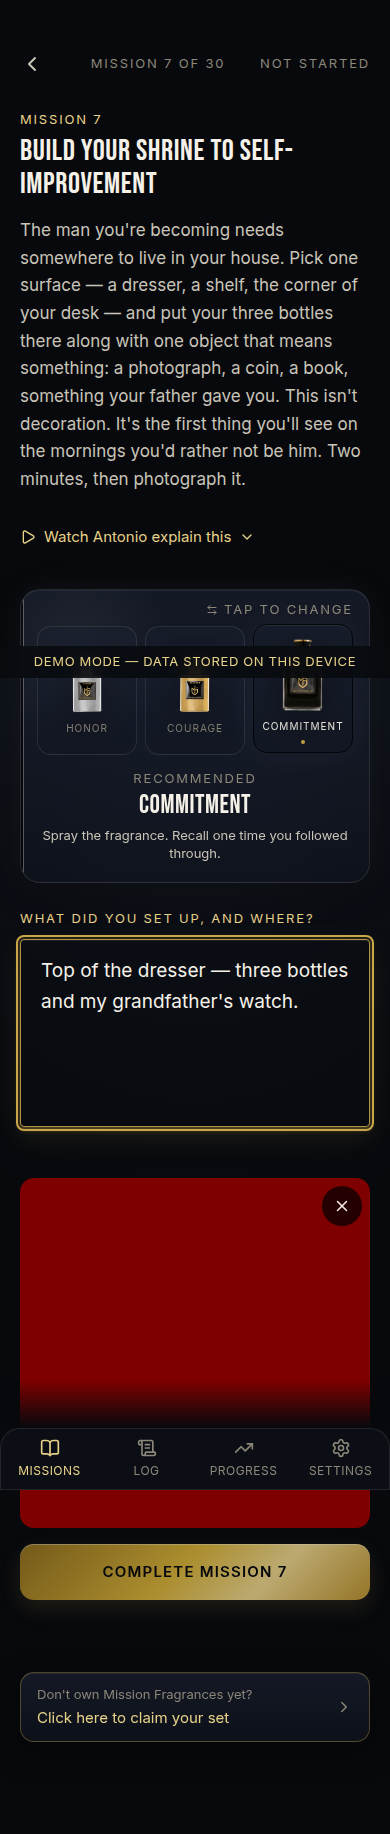
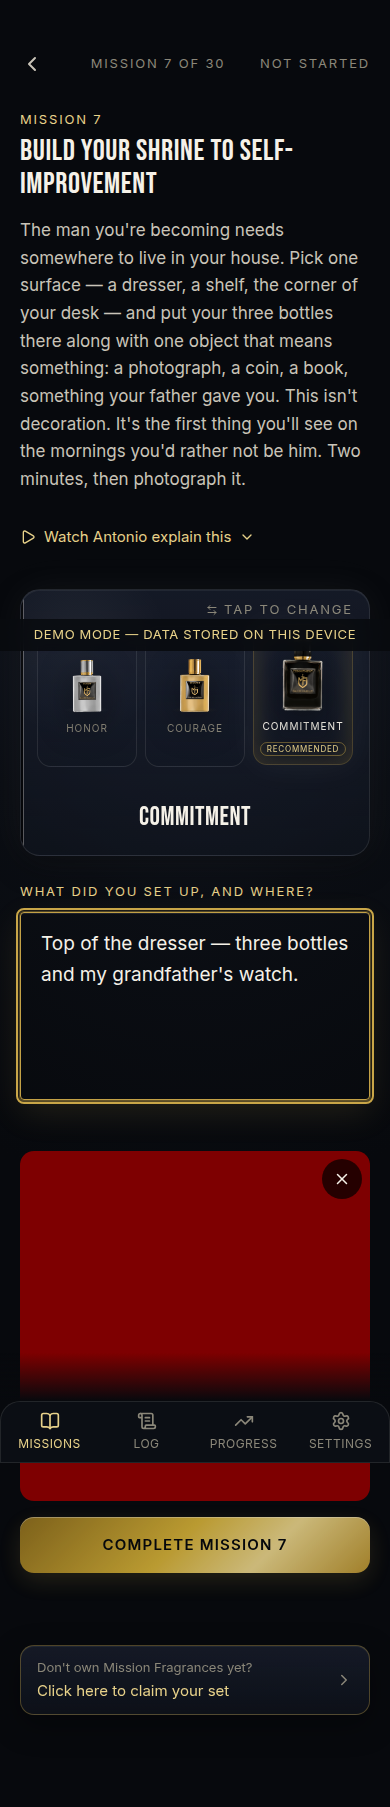
The recommendation lives on its bottle, and the spray line goes
The recommended tile now carries its own inner gold light and a small
RECOMMENDED pill inside it, in place of the dot. The marker sits on the
bottle it refers to, so it still reads once he is wearing something else.

With the tile saying it, the line under the row said RECOMMENDED twice in
twenty pixels — it now speaks only when it has something to add
("YOUR CHOICE"), and keeps its height either way so the name never jumps.

The "Spray the fragrance. Recall one time you…" line is gone from the card,
and with it the starRecall content it was the only reader of.

Claude-Session: https://claude.ai/code/session_01WVgj5E7JPb9xgPaaNWkVw6

diff --git a/src/components/FragranceCue.tsx b/src/components/FragranceCue.tsx
@@ -85,7 +85,10 @@ export default function FragranceCue({
               aria-label={TRIGGERS[trigger].name.toLowerCase()}
               data-open={chosen}
               onClick={() => onChange(trigger)}
-              className="bottle-tile flex flex-col items-center rounded-[14px] px-1 pt-3 pb-2"
+              className={cn(
+                "bottle-tile flex flex-col items-center rounded-[14px] px-1 pt-3 pb-2",
+                trigger === recommended && "is-recommended",
+              )}
               style={
                 {
                   "--cue-color": accent.color,
@@ -111,27 +114,29 @@ export default function FragranceCue({
               >
                 {TRIGGERS[trigger].name}
               </span>
-              {/* Which one the Mission asks for, whatever he picks. */}
-              <span
-                aria-hidden
-                className={cn(
-                  "mt-1.5 block h-1 w-1 rounded-full",
-                  trigger === recommended
-                    ? "bg-[var(--gold-500)]"
-                    : "bg-transparent",
-                )}
-              />
+              {/* Which one the Mission asks for, whatever he picks. The
+                  spacer keeps all three tiles the same height. */}
+              {trigger === recommended ? (
+                <span className="mt-2 block rounded-full border border-[rgba(201,166,72,.45)] px-1.5 py-[2px] text-[8px] leading-none tracking-[0.1em] text-gold-300 uppercase">
+                  Recommended
+                </span>
+              ) : (
+                <span aria-hidden className="mt-2 block h-[14px]" />
+              )}
             </button>
           );
         })}
       </div>
 
-      <div className="relative mt-4 text-center">
-        <p className="eyebrow text-ink-2">
+      <div className="relative mt-3 text-center">
+        {/* The tile already says RECOMMENDED, so this line only speaks when
+            it has something to add — and keeps its height either way so the
+            name never jumps. */}
+        <p className="eyebrow min-h-[16px] text-ink-2">
           {recommended === undefined
             ? "YOUR FRAGRANCE"
             : onRecommendation
-              ? "RECOMMENDED"
+              ? ""
               : "YOUR CHOICE"}
         </p>
         {/* Keyed so the line remounts on a switch: iOS Safari splices text
@@ -144,9 +149,6 @@ export default function FragranceCue({
           }}
         >
           {meta.name}
-        </p>
-        <p key={`${value}-line`} className="mt-2 text-[13px] leading-snug text-ink-1">
-          {meta.starRecall}
         </p>
       </div>
     </div>

diff --git a/src/content/triggers.ts b/src/content/triggers.ts
@@ -13,8 +13,6 @@ export const TRIGGERS = {
     applyLine: "Apply Honor now.",
     /** For the anchor line: "recall a moment you were HONORABLE". */
     anchorWord: "HONORABLE",
-    /** The T of S.T.A.R., personalized to the value. */
-    starRecall: "Spray the fragrance. Recall one time you acted with honor.",
     /** "Proof logged. You acted with Honor." */
     provedWith: "Honor",
   },
@@ -29,7 +27,6 @@ export const TRIGGERS = {
       "Courage isn't a switch you flip in a crisis. It's built through the daily practice of mastering your fear — mental, moral, and physical strength earned by doing the hard thing anyway. Not every brave act is audacious: sticking to the plan, saying no, climbing the ladder. Every small act builds a courageous man.",
     applyLine: "Apply Courage now.",
     anchorWord: "COURAGEOUS",
-    starRecall: "Spray the fragrance. Recall one time you acted despite fear.",
     provedWith: "Courage",
   },
   commitment: {
@@ -43,7 +40,6 @@ export const TRIGGERS = {
       "Commitment is more than a promise. It's a conscious decision to stick to a goal or task in the face of adversity — the spirit of determination and dedication that leads to the mastery of self. It doesn't come and go with your moods. It starts small: daily decisions that line up with what you said you wanted.",
     applyLine: "Apply Commitment now.",
     anchorWord: "COMMITTED",
-    starRecall: "Spray the fragrance. Recall one time you followed through.",
     provedWith: "Commitment",
   },
 } as const;

diff --git a/src/app/globals.css b/src/app/globals.css
@@ -213,12 +213,31 @@ body {
     opacity: 1;
   }
 
+  /* The bottle the Mission asks for carries its own light from the inside,
+     so the recommendation reads even when he is wearing something else. */
+  .bottle-tile.is-recommended {
+    border-color: rgba(201, 166, 72, 0.3);
+    box-shadow: inset 0 0 22px rgba(201, 166, 72, 0.16);
+  }
+
+  .bottle-tile.is-recommended:hover,
+  .bottle-tile.is-recommended[data-open="true"] {
+    box-shadow:
+      inset 0 0 26px rgba(201, 166, 72, 0.22),
+      0 0 34px var(--cue-glow);
+  }
+
   /* A finger is not a cursor: never leave a tile stuck in its hover state. */
   @media (hover: none) {
     .bottle-tile:hover {
       border-color: var(--line);
       box-shadow: none;
       transform: none;
+    }
+
+    .bottle-tile.is-recommended:hover {
+      border-color: rgba(201, 166, 72, 0.3);
+      box-shadow: inset 0 0 22px rgba(201, 166, 72, 0.16);
     }
 
     .bottle-tile:hover .bottle-pool {

diff --git a/docs/HANDOFF.md b/docs/HANDOFF.md
@@ -19,7 +19,7 @@ states. The Vivid Vision is archived; its replacement is the compiled, printable
 
 - Owner: Antonio Centeno (product decisions). Team contact: Yuri.
 - Repo: https://github.com/aiexecutionaccelerator/mfapp (branch `main`)
-- Version: 2.3.2 (one input, one click)
+- Version: 2.4.0 (one input, one click)
 
 ## Architecture facts that matter
 
